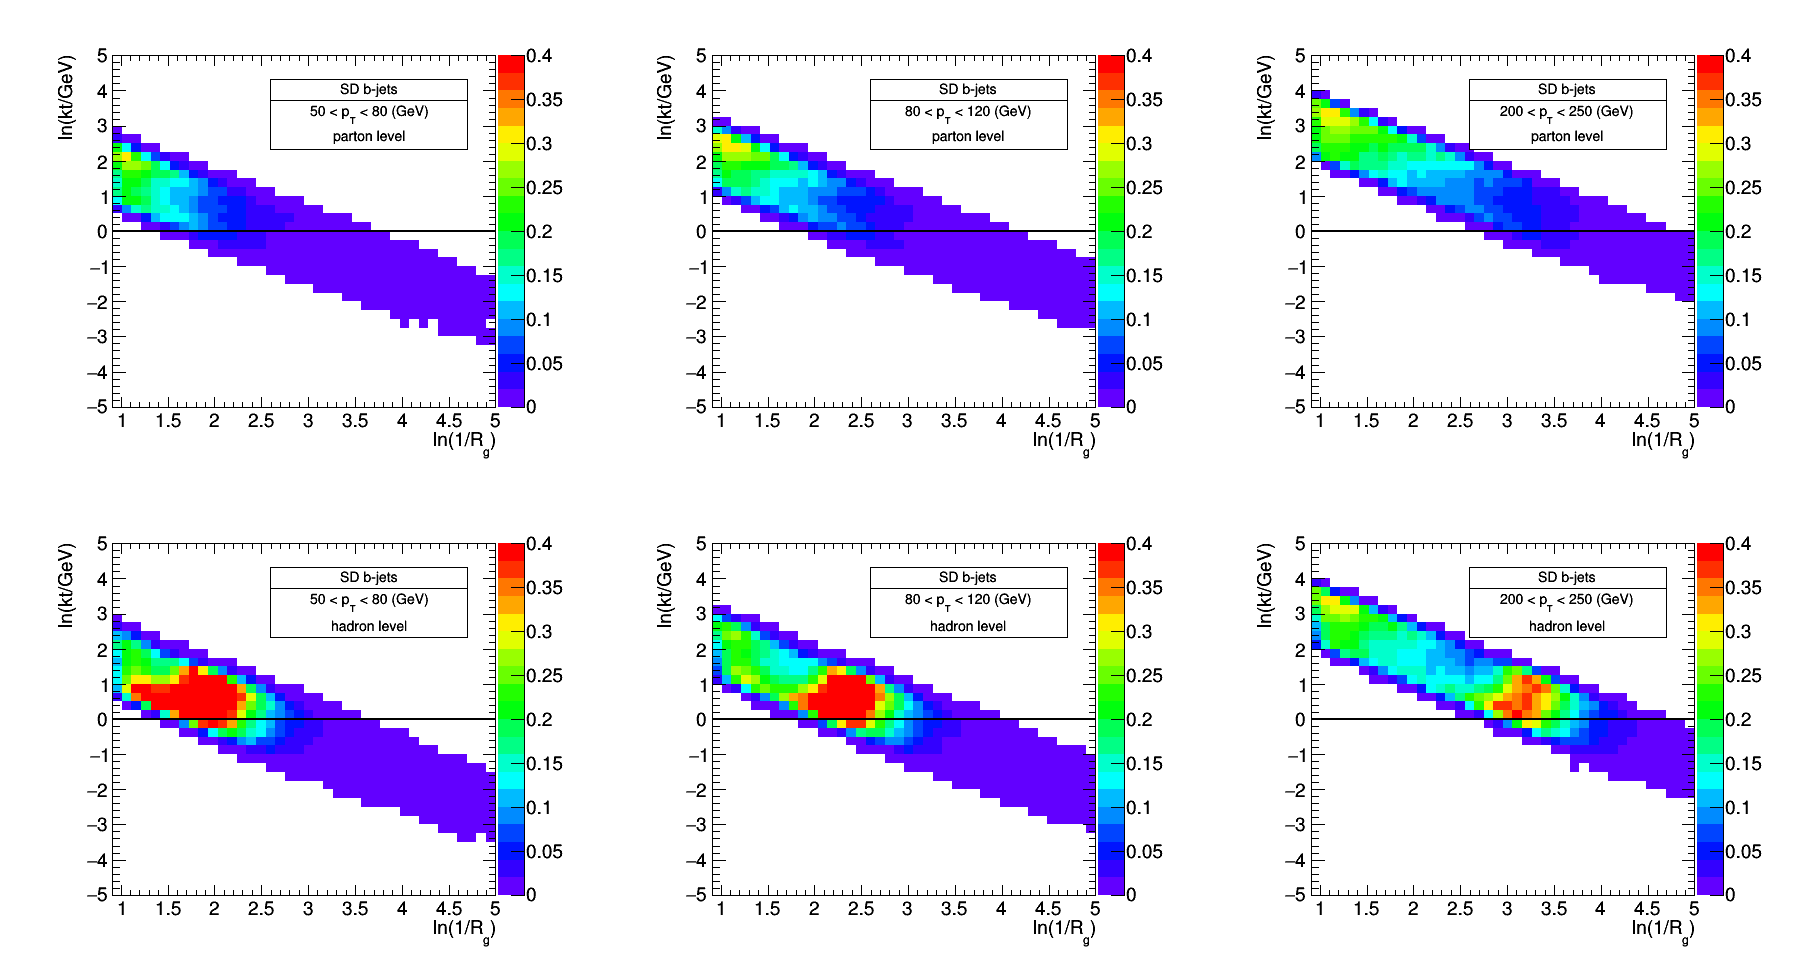
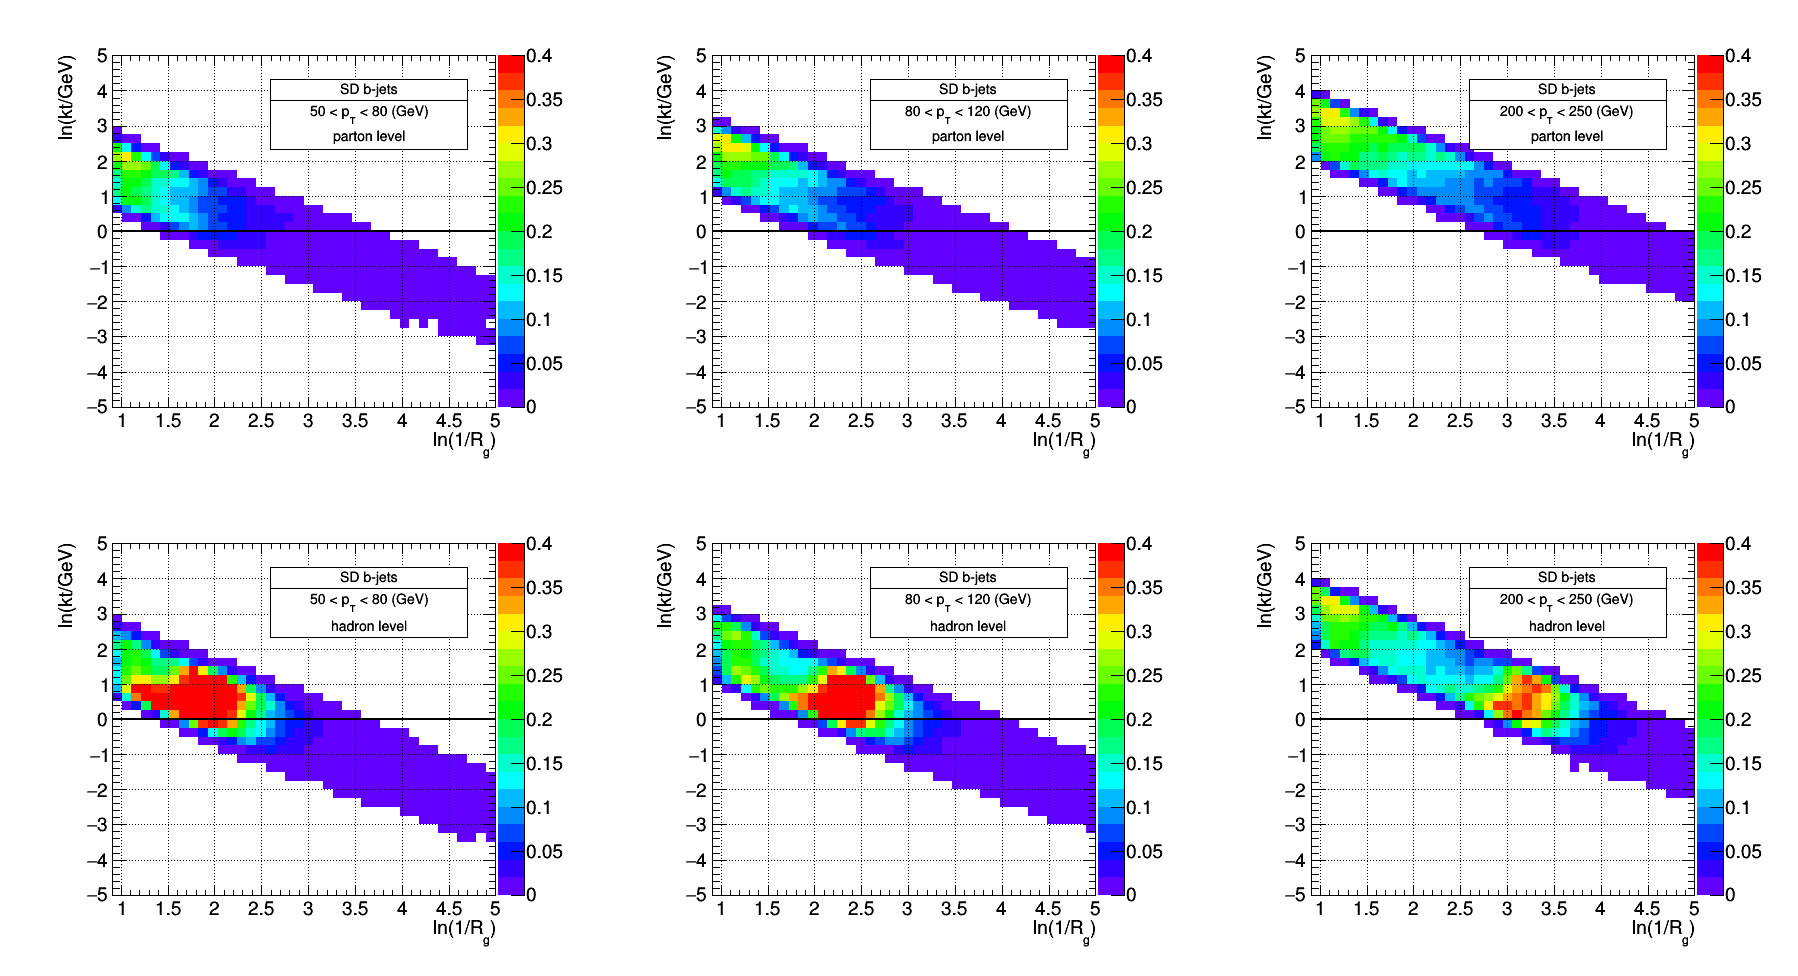
update SD plots

diff --git a/myMacros/pt2dscan/SD/draw_SD_light.C b/myMacros/pt2dscan/SD/draw_SD_light.C
@@ -11,7 +11,7 @@
 
 using namespace std;
 
-void draw_SD()
+void draw_SD_light()
 {      
     string histfile_ref = "~/rootFiles/SD_ref.root";
     string histfile_par = "~/rootFiles/SD_par.root";
@@ -92,6 +92,7 @@ void draw_SD()
         Float_t zmax = 0.4;
 
         c->cd(i + 1);
+        c->cd(i + 1)->SetGrid();
         set_axes_labels(h2d_par, xtitle, ytitle);
         normalise_histo(h2d_par);
         set_zrange(h2d_par, zmin, zmax);
@@ -101,6 +102,7 @@ void draw_SD()
         info_par->Draw();
 
         c->cd(i + 1 + npt);
+        c->cd(i + 1 + npt)->SetGrid();
         set_axes_labels(h2d_ref, xtitle, ytitle);
         normalise_histo(h2d_ref);
         set_zrange(h2d_ref, zmin, zmax);
@@ -114,6 +116,7 @@ void draw_SD()
         Float_t zmax_dynKt = 0.3;
 
         c_dynKt->cd(i + 1);
+        c_dynKt->cd(i + 1)->SetGrid();
         TH2D *h2d_par_clone = (TH2D *) h2d_par->Clone();
         set_zrange(h2d_par_clone, zmin_dynKt, zmax_dynKt);
 
@@ -122,6 +125,7 @@ void draw_SD()
         info_par->Draw();
 
         c_dynKt->cd(i + 1 + npt);
+        c_dynKt->cd(i + 1 + npt)->SetGrid();
         set_axes_labels(h2d_ref_dynKt, xtitle, ytitle);
         normalise_histo(h2d_ref_dynKt);
         set_zrange(h2d_ref_dynKt, zmin_dynKt, zmax_dynKt);
@@ -132,10 +136,11 @@ void draw_SD()
 
         // c_ratio : ref/par, ref dynKt/par
         Float_t zmin_ratio = 0.;
-        Float_t zmax_ratio = 20.;
+        Float_t zmax_ratio = 10.;
 
         c_ratio->cd(i + 1);
         c_ratio->cd(i + 1)->SetLogz();
+        c_ratio->cd(i + 1)->SetGrid();
         TH2D *h2d_ratio = (TH2D *) h2d_ref->Clone();
         h2d_ratio->Divide(h2d_par);
         // Fix the colormap (Z) axis
@@ -147,6 +152,7 @@ void draw_SD()
 
         c_ratio->cd(i + 1 + npt);
         c_ratio->cd(i + 1 + npt)->SetLogz();
+        c_ratio->cd(i + 1 + npt)->SetGrid();
         TH2D *h2d_ratio_dynKt = (TH2D *) h2d_ref_dynKt->Clone();
         h2d_ratio_dynKt->Divide(h2d_par);
         // Fix the colormap (Z) axis

diff --git a/myMacros/pt2dscan/SD/draw_SD_c.C b/myMacros/pt2dscan/SD/draw_SD_c.C
@@ -11,7 +11,7 @@
 
 using namespace std;
 
-void draw_SD()
+void draw_SD_c()
 {      
     string histfile_ref = "~/rootFiles/SD_ref.root";
     string histfile_par = "~/rootFiles/SD_par.root";
@@ -92,6 +92,7 @@ void draw_SD()
         Float_t zmax = 0.4;
 
         c->cd(i + 1);
+        c->cd(i + 1)->SetGrid();
         set_axes_labels(h2d_par, xtitle, ytitle);
         normalise_histo(h2d_par);
         set_zrange(h2d_par, zmin, zmax);
@@ -101,6 +102,7 @@ void draw_SD()
         info_par->Draw();
 
         c->cd(i + 1 + npt);
+        c->cd(i + 1 + npt)->SetGrid();
         set_axes_labels(h2d_ref, xtitle, ytitle);
         normalise_histo(h2d_ref);
         set_zrange(h2d_ref, zmin, zmax);
@@ -114,6 +116,7 @@ void draw_SD()
         Float_t zmax_dynKt = 0.3;
 
         c_dynKt->cd(i + 1);
+        c_dynKt->cd(i + 1)->SetGrid();
         TH2D *h2d_par_clone = (TH2D *) h2d_par->Clone();
         set_zrange(h2d_par_clone, zmin_dynKt, zmax_dynKt);
 
@@ -122,6 +125,7 @@ void draw_SD()
         info_par->Draw();
 
         c_dynKt->cd(i + 1 + npt);
+        c_dynKt->cd(i + 1 + npt)->SetGrid();
         set_axes_labels(h2d_ref_dynKt, xtitle, ytitle);
         normalise_histo(h2d_ref_dynKt);
         set_zrange(h2d_ref_dynKt, zmin_dynKt, zmax_dynKt);
@@ -136,6 +140,7 @@ void draw_SD()
 
         c_ratio->cd(i + 1);
         c_ratio->cd(i + 1)->SetLogz();
+        c_ratio->cd(i + 1)->SetGrid();
         TH2D *h2d_ratio = (TH2D *) h2d_ref->Clone();
         h2d_ratio->Divide(h2d_par);
         // Fix the colormap (Z) axis
@@ -147,6 +152,7 @@ void draw_SD()
 
         c_ratio->cd(i + 1 + npt);
         c_ratio->cd(i + 1 + npt)->SetLogz();
+        c_ratio->cd(i + 1 + npt)->SetGrid();
         TH2D *h2d_ratio_dynKt = (TH2D *) h2d_ref_dynKt->Clone();
         h2d_ratio_dynKt->Divide(h2d_par);
         // Fix the colormap (Z) axis

diff --git a/myMacros/pt2dscan/SD/draw_SD.C b/myMacros/pt2dscan/SD/draw_SD.C
@@ -92,6 +92,7 @@ void draw_SD()
         Float_t zmax = 0.4;
 
         c->cd(i + 1);
+        c->cd(i + 1)->SetGrid();
         set_axes_labels(h2d_par, xtitle, ytitle);
         normalise_histo(h2d_par);
         set_zrange(h2d_par, zmin, zmax);
@@ -101,6 +102,7 @@ void draw_SD()
         info_par->Draw();
 
         c->cd(i + 1 + npt);
+        c->cd(i + 1 + npt)->SetGrid();
         set_axes_labels(h2d_ref, xtitle, ytitle);
         normalise_histo(h2d_ref);
         set_zrange(h2d_ref, zmin, zmax);
@@ -114,6 +116,7 @@ void draw_SD()
         Float_t zmax_dynKt = 0.3;
 
         c_dynKt->cd(i + 1);
+        c_dynKt->cd(i + 1)->SetGrid();
         TH2D *h2d_par_clone = (TH2D *) h2d_par->Clone();
         set_zrange(h2d_par_clone, zmin_dynKt, zmax_dynKt);
 
@@ -122,6 +125,7 @@ void draw_SD()
         info_par->Draw();
 
         c_dynKt->cd(i + 1 + npt);
+        c_dynKt->cd(i + 1 + npt)->SetGrid();
         set_axes_labels(h2d_ref_dynKt, xtitle, ytitle);
         normalise_histo(h2d_ref_dynKt);
         set_zrange(h2d_ref_dynKt, zmin_dynKt, zmax_dynKt);
@@ -136,6 +140,7 @@ void draw_SD()
 
         c_ratio->cd(i + 1);
         c_ratio->cd(i + 1)->SetLogz();
+        c_ratio->cd(i + 1)->SetGrid();
         TH2D *h2d_ratio = (TH2D *) h2d_ref->Clone();
         h2d_ratio->Divide(h2d_par);
         // Fix the colormap (Z) axis
@@ -146,6 +151,7 @@ void draw_SD()
         info_ratio->Draw();
 
         c_ratio->cd(i + 1 + npt);
+        c_ratio->cd(i + 1 + npt)->SetGrid();
         c_ratio->cd(i + 1 + npt)->SetLogz();
         TH2D *h2d_ratio_dynKt = (TH2D *) h2d_ref_dynKt->Clone();
         h2d_ratio_dynKt->Divide(h2d_par);
